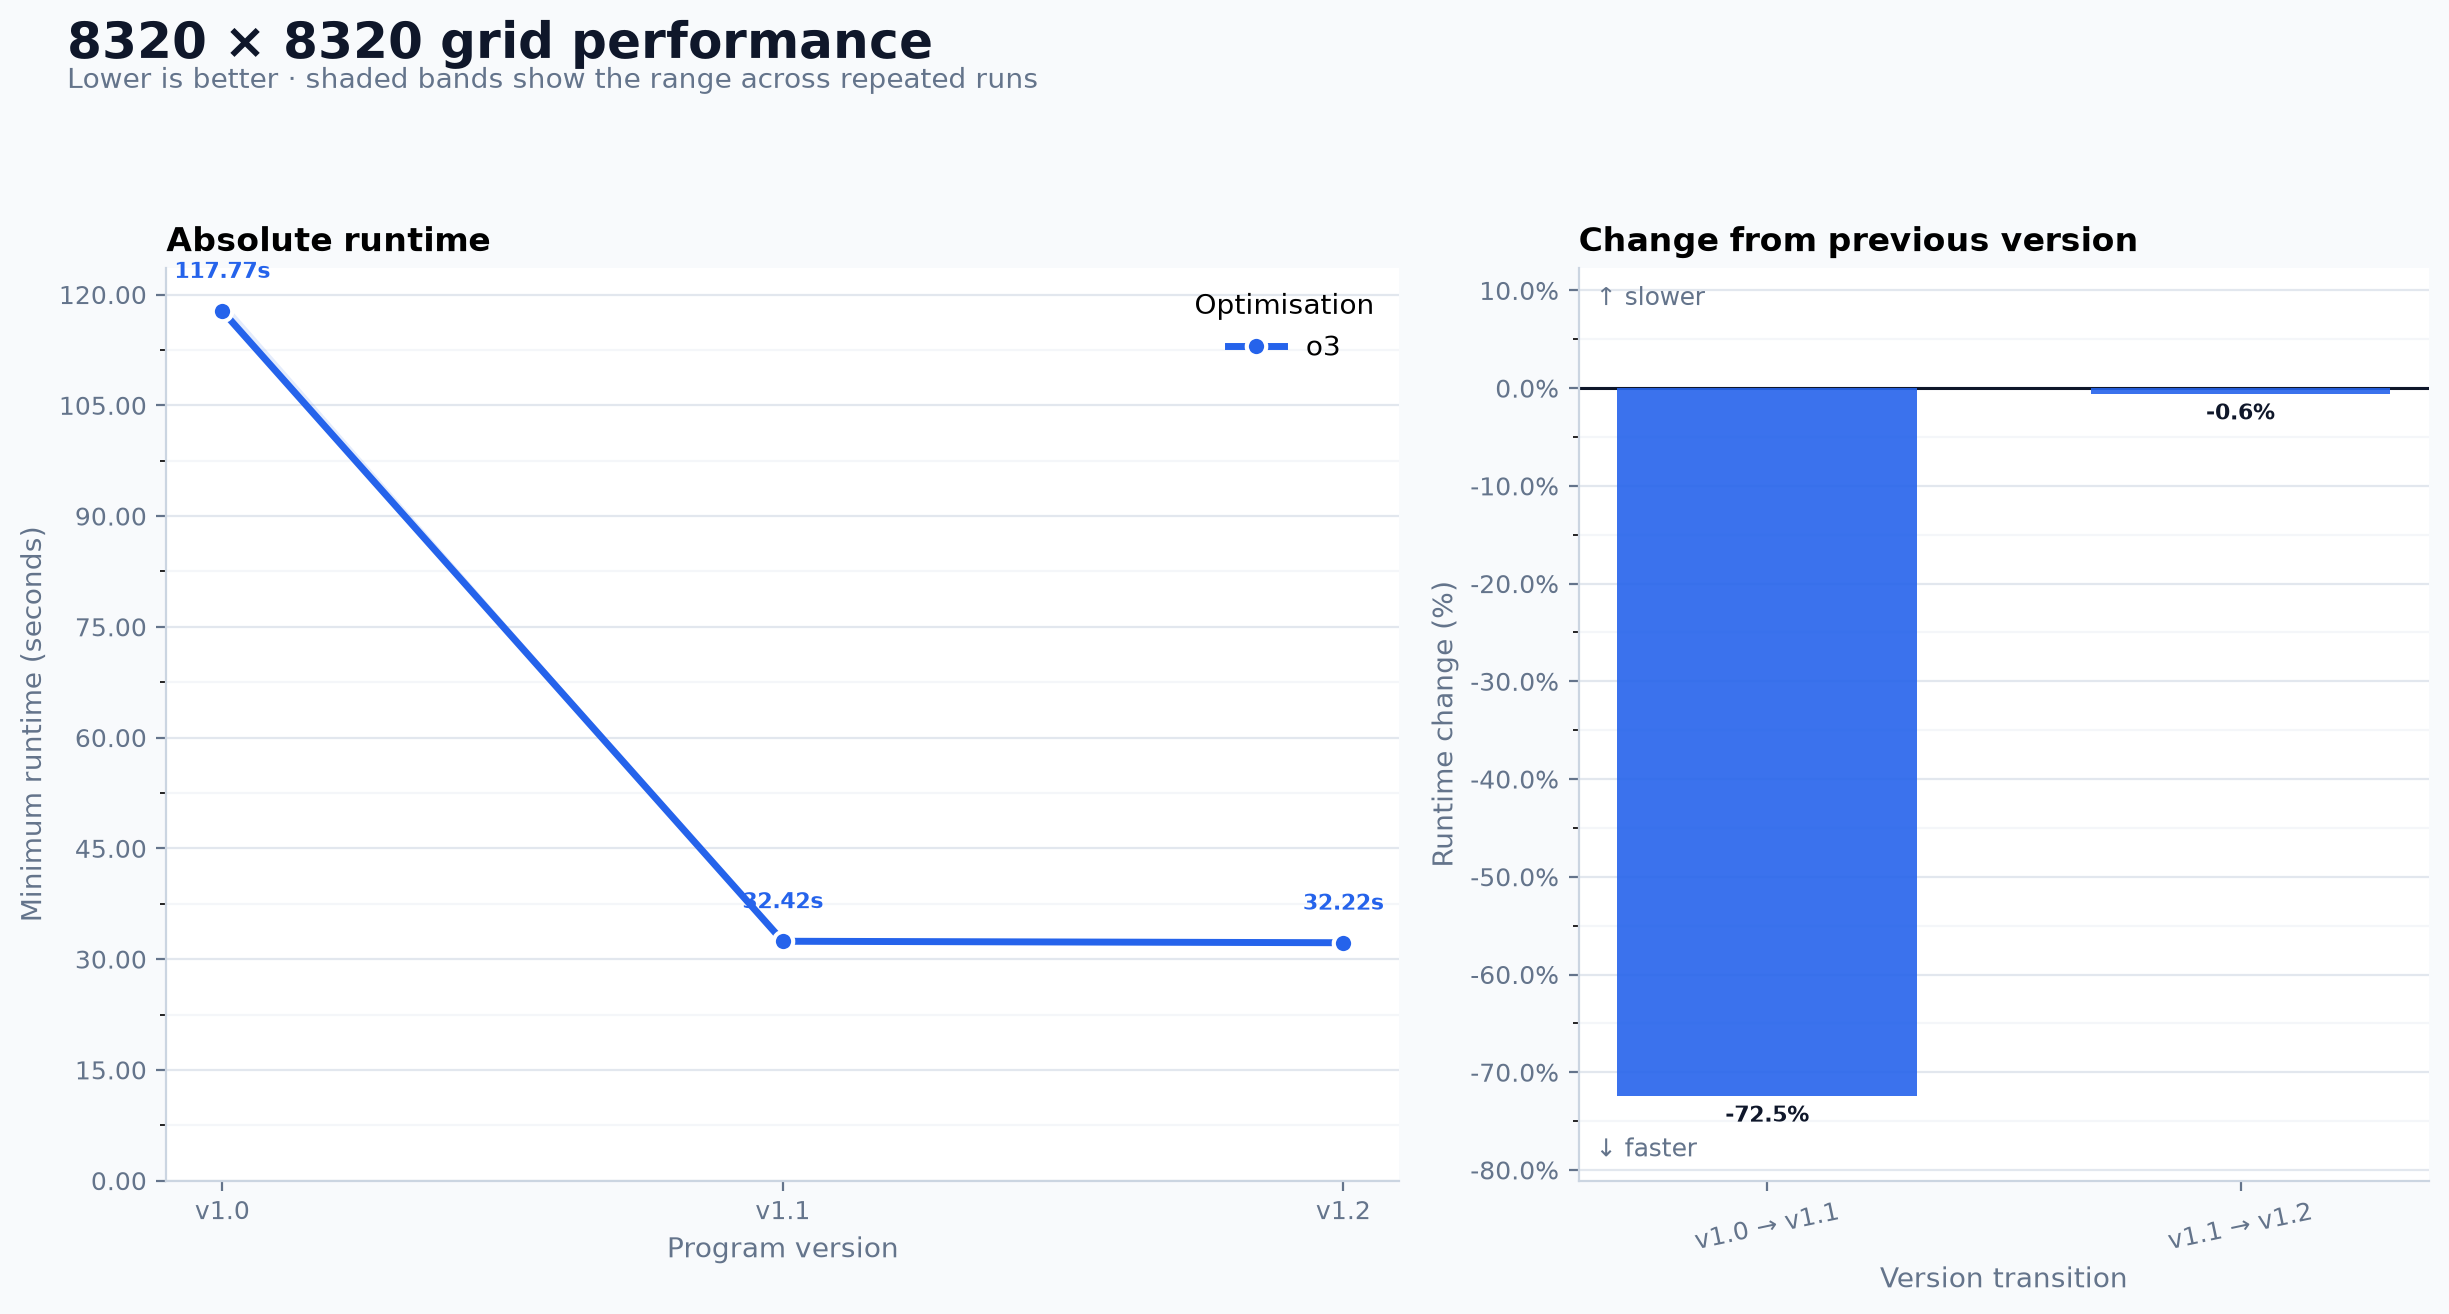
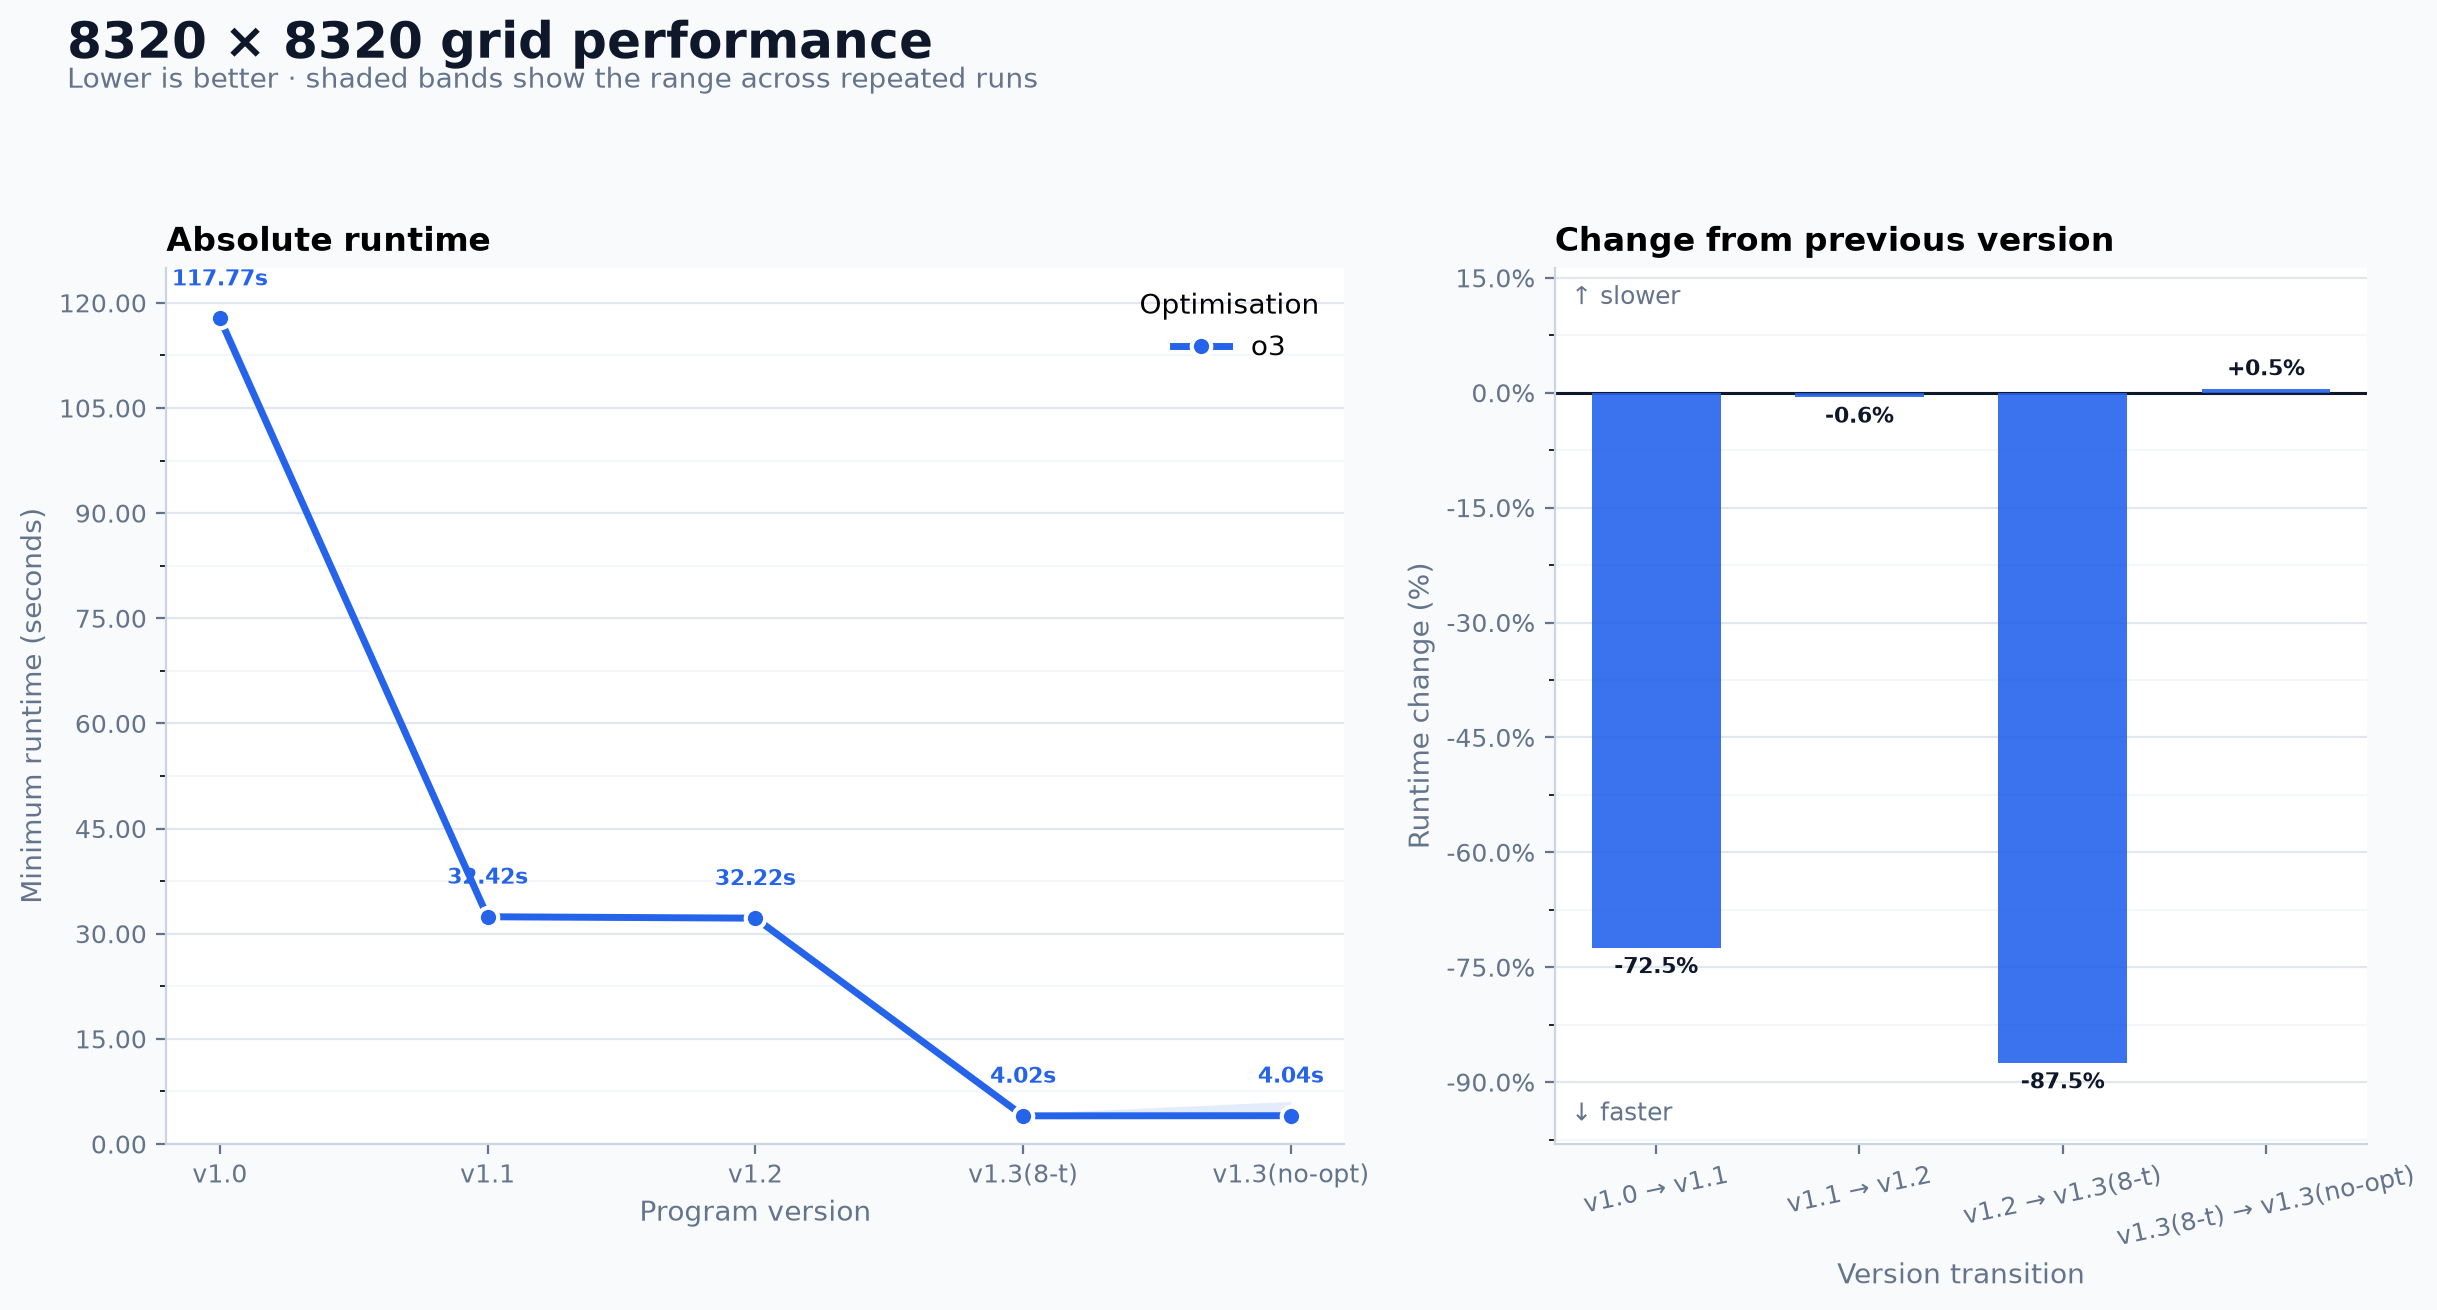
add v1.3

diff --git a/main.cpp b/main.cpp
@@ -93,9 +93,11 @@ int main(int argc, char *argv[]) {
     for (int t = 0; t < timesteps; ++t) {
 #pragma omp for schedule(static)
       for (int x = 1; x < grid_size - 1; x++) {
-        // this loop unroll provides a massive speedup of 0.6% on a single thread
-        // let's see how much this slows down when i get rid of it but when running on 8 threads
-//#pragma GCC unroll 4
+        // this loop unroll provides a massive speedup of 0.6% on a single
+        // thread let's see how much this slows down when i get rid of it but
+        // when running on 8 threads
+        // #pragma GCC unroll 4 -> not having this slowed down my code by 0.4%
+
         for (int y = 1; y < grid_size - 1; y += 32) {
           const auto idx = x * grid_size + y;
           // read 256 bits of memory starting from idx
